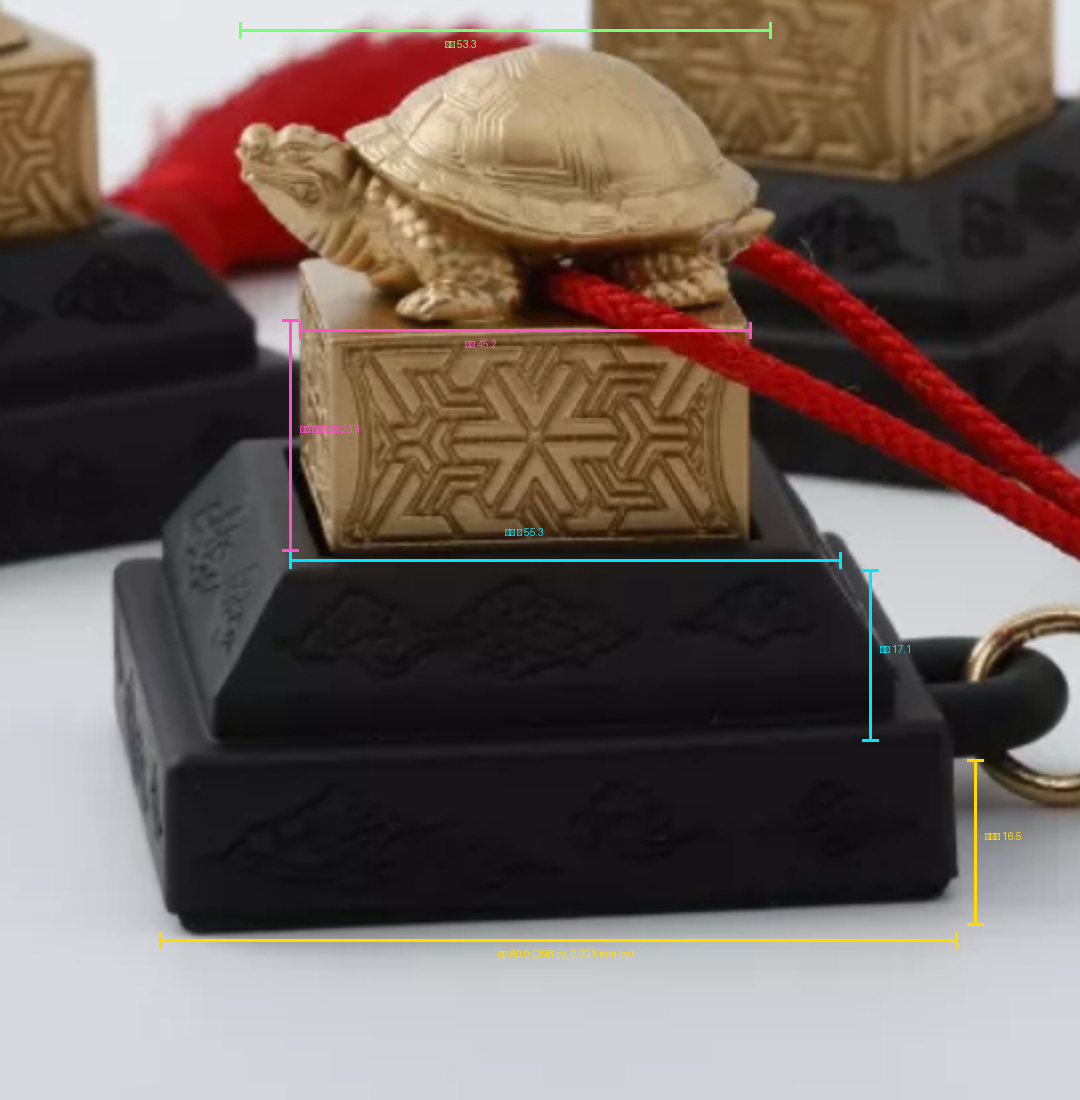
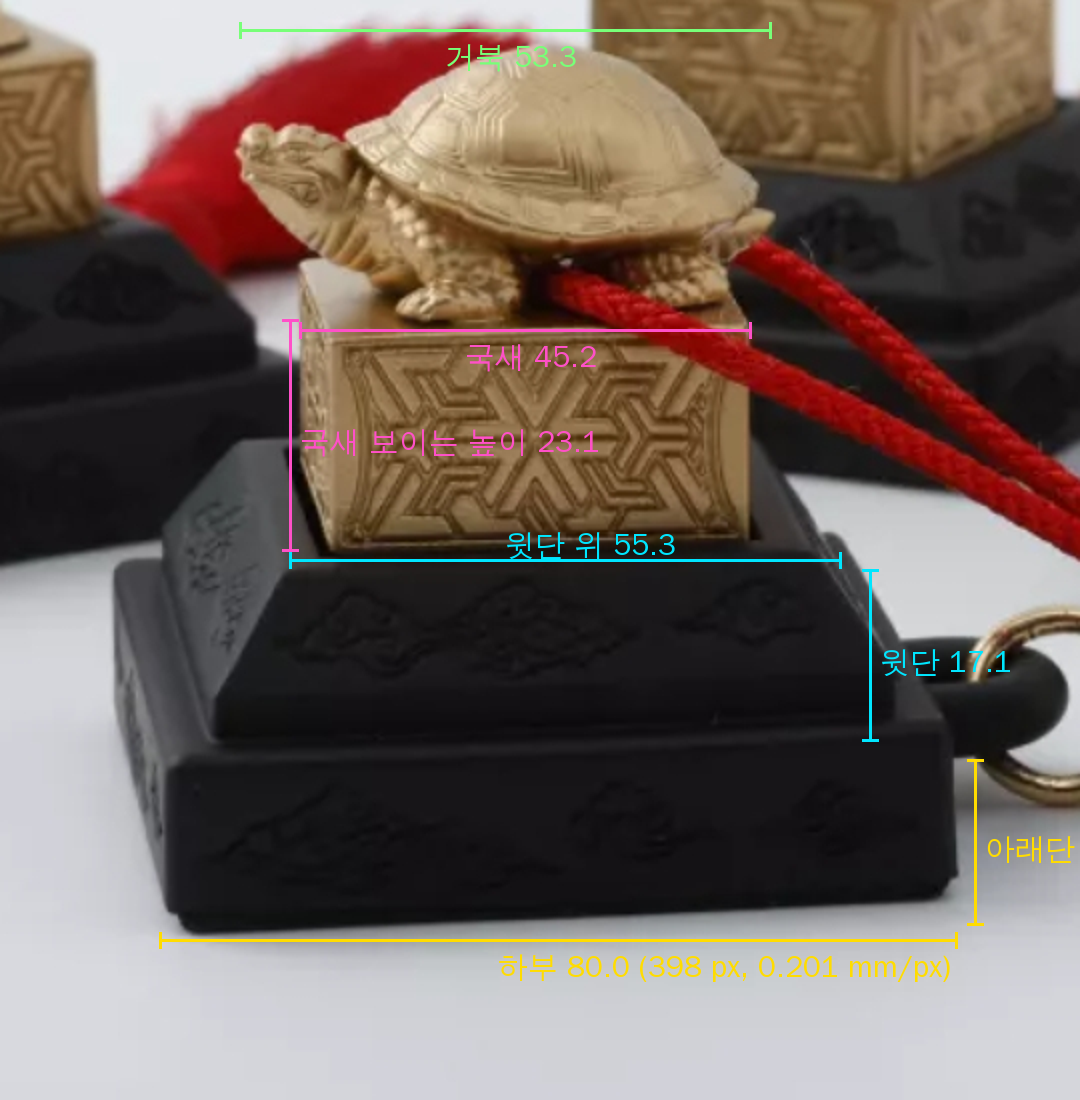
국새 클리커: 사진 실측 그림·Tripo 입력 준비·glb 가져오기 스크립트
Claude-Session: https://claude.ai/code/session_01SekdwqRaxMEXLaJifBaXKi

diff --git a/작업중/gukse-clicker/scripts/ref_measure.py b/작업중/gukse-clicker/scripts/ref_measure.py
@@ -10,14 +10,17 @@ from PIL import Image, ImageDraw, ImageFont
 
 ROOT = Path(__file__).resolve().parents[3]
 OUT = Path(__file__).resolve().parents[1] / "figures"
-FONT = "/usr/share/fonts/truetype/nanum/NanumGothicBold.ttf"
+FONTS = ["/usr/share/fonts/truetype/wqy/wqy-zenhei.ttc", "/usr/share/fonts/opentype/noto/NotoSansCJK-Bold.ttc",
+         "/usr/share/fonts/truetype/nanum/NanumGothicBold.ttf"]
 
 
 def font(n):
-    try:
-        return ImageFont.truetype(FONT, n)
-    except OSError:
-        return ImageFont.load_default()
+    for p in FONTS:
+        try:
+            return ImageFont.truetype(p, n)
+        except OSError:
+            pass
+    return ImageFont.load_default()
 
 
 def hline(d, x0, x1, y, col, txt, f, up=True):
@@ -36,7 +39,7 @@ def vline(d, x, y0, y1, col, txt, f):
 
 def main():
     OUT.mkdir(exist_ok=True)
-    f = font(22)
+    f = font(30)
     # --- 사진 2 (제품) : 잘라낸 좌표(px) 그대로 2배 확대해 그림
     im = Image.open(ROOT / "sample/gukse_clicker_wadiz.jpg").convert("RGB").crop((380, 1300, 920, 1850))
     im = im.resize((im.width * 2, im.height * 2))
